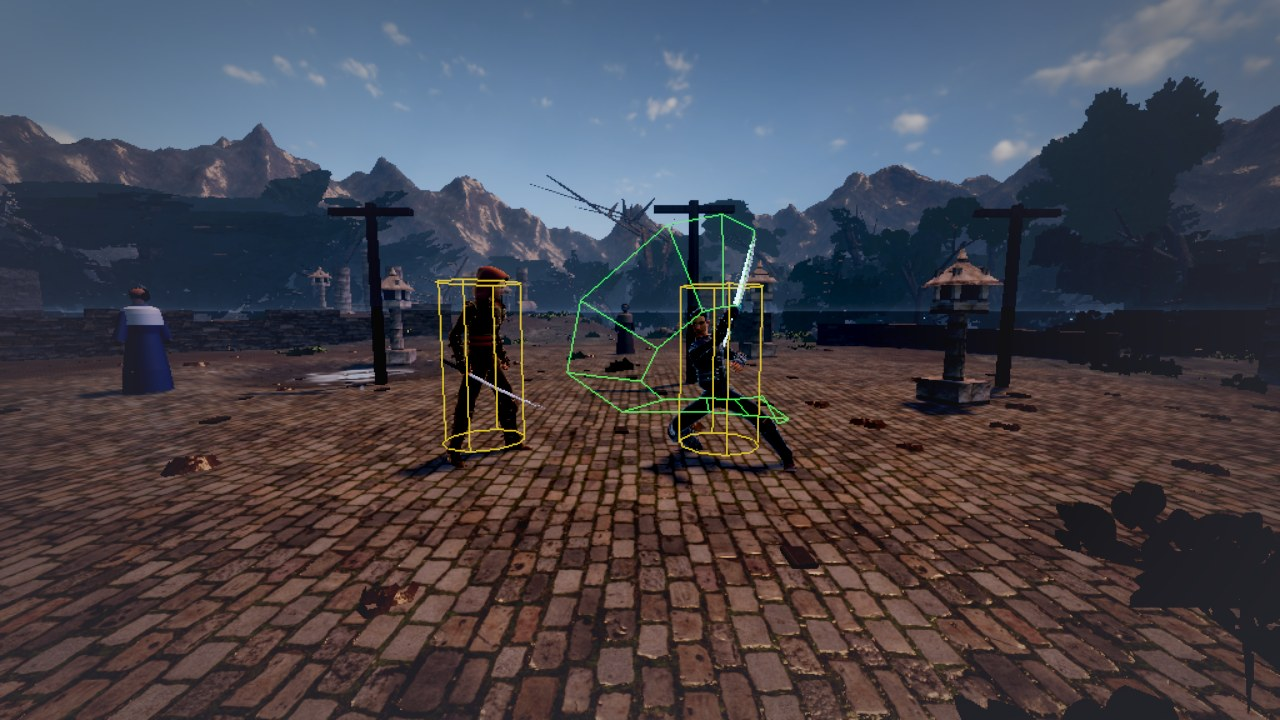
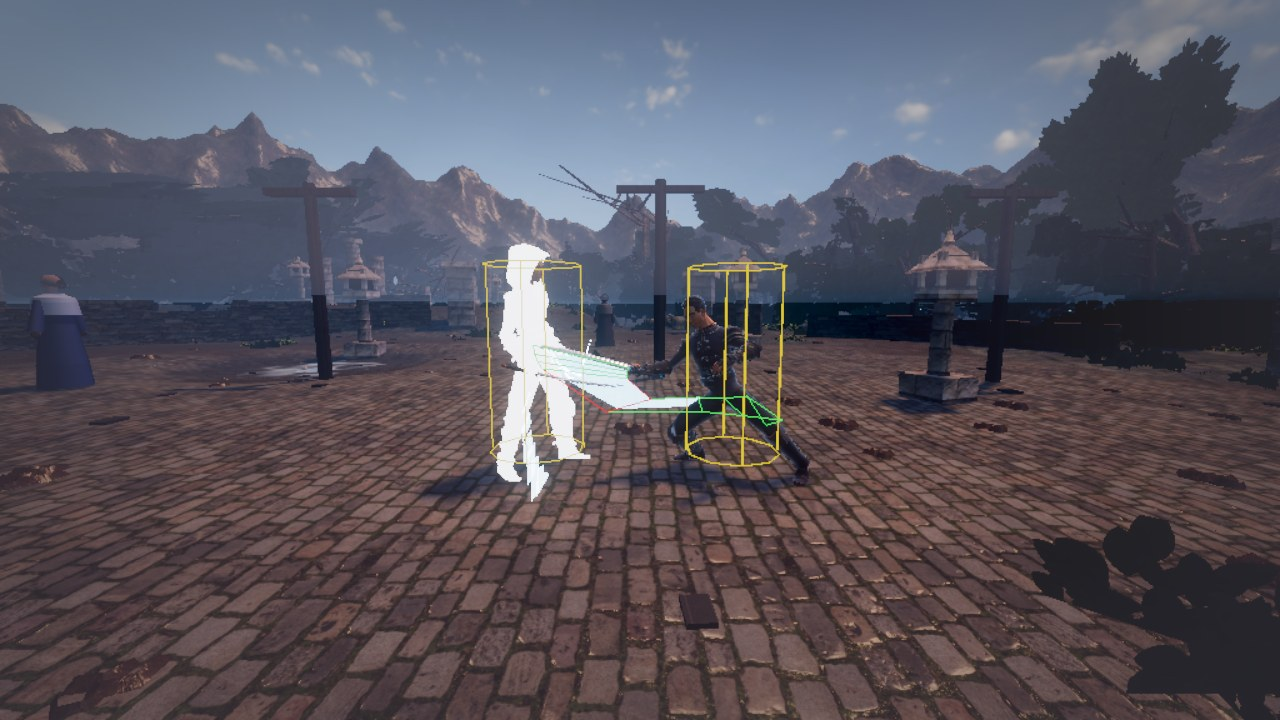
Overlay plate from the frame the light attack connects
Claude-Session: https://claude.ai/code/session_018ZPWQ2D8ja2mneyLcthFig

diff --git a/SESSION_REPORT.md b/SESSION_REPORT.md
@@ -83,7 +83,7 @@ step sizes to prove the combat maths does not change with the frame rate.
 | Slope lab | The steepest walkable patch within 45 m of the courtyard (17°, at x 45 z −24.5); enemy uphill, then downhill. Steps 1/60, 1/20 s. | 12 / 14 / 18 / 21 in all four cases; no NaN. |
 | Staged encounters | The three encounters simulated end to end. | Still clear (64 / 22 / 52 swings). |
 | Gameplay-camera fight capture | The AI 1v1 from the real third-person camera, one frame per 0.15 s, scripted player who closes, swings in reach and dodges on the enemy's commit. | Enemy dead by frame 12; player finishes on 62 HP; sword stays in the hand, feet on the stone, hit flash on the struck body only (`docs/shots/combat-fight.gif`). |
-| Overlay capture | F2 overlay from the side, loop frozen, a light attack stepped to fixed phases. | Side view shows both hurt capsules and the blade's sweep chain fanning from over the head down through the target's line (`docs/shots/combat-overlay.jpg`); the chain is green before contact and red with a contact point on the frame a hit lands. |
+| Overlay capture | F2 overlay from the side, loop frozen, a light attack stepped to fixed phases. | Four fixed phases of a light attack against a held enemy at 1.7 m: before the window (no chain), window open (green chain, no contact, enemy 65 HP), the contact frame (chain red at the contact, enemy 65 → 53 HP and in `hit`, hit flash on that body only; `docs/shots/combat-overlay.jpg`), and after (window closed, no chain). Draw calls 3,153 in that view. |
 | Hit-reaction sheet | `preview('hit')` with the loop frozen, stepped to fixed phases of the recoil. | At 0.06 s all three bodies lean back with the head turned and the enemy (stagger, strength 1.7) further than the player and ally (light hit); the feet stay planted and the sword stays in the hand. |
 
 Checklist from the brief: idle→attack ✓, run→attack ✓, three-hit combo ✓, heavy ✓, dodge (0.25 s
